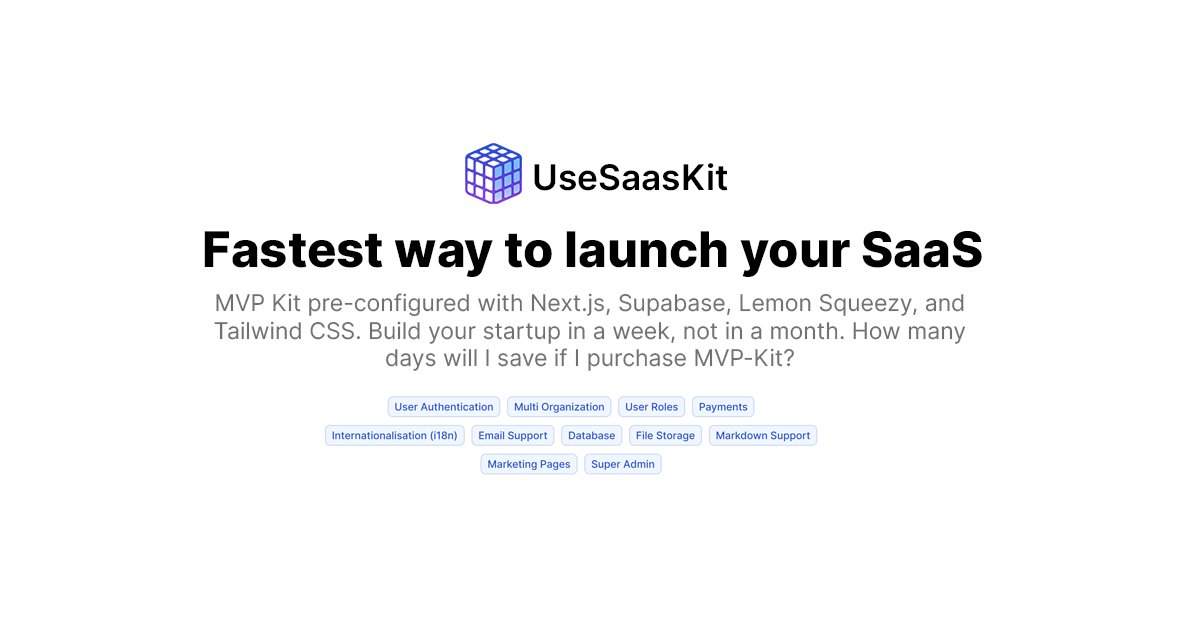
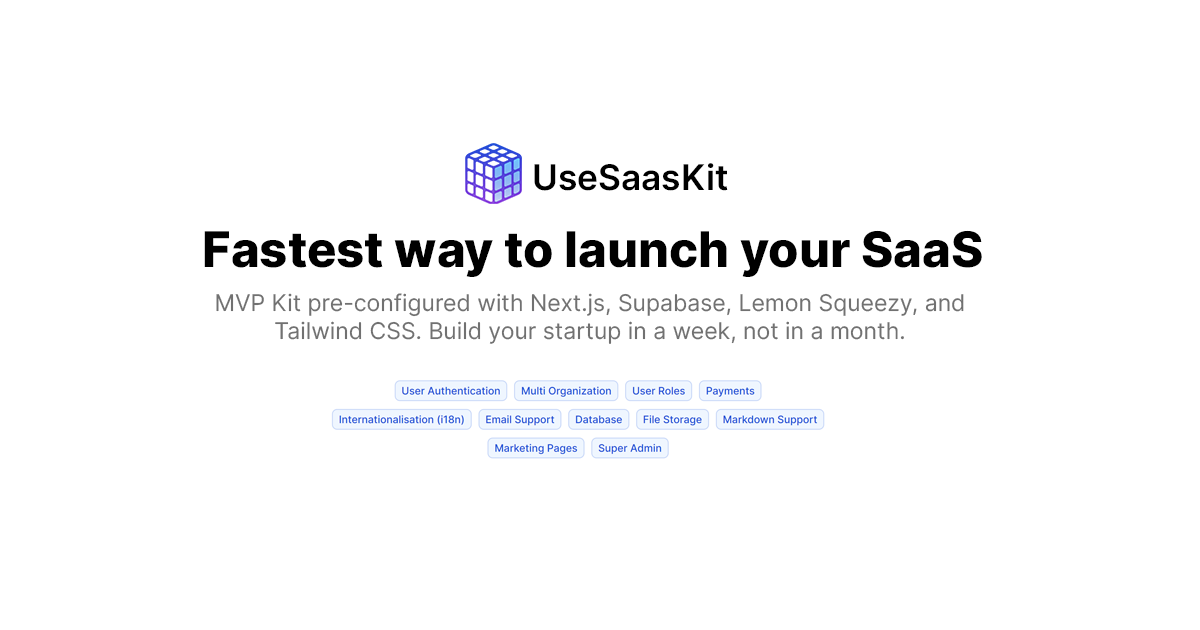
feat: add new og image and twitter tracking

Changed region(s): [[0.185, 0.5127, 0.8017, 0.754]]

diff --git a/src/app/layout.tsx b/src/app/layout.tsx
@@ -3,7 +3,7 @@ import { Inter } from "next/font/google";
 import "@/styles/tailwind.css";
 import { cnMerge } from "@/utils";
 import { Navigation } from "@/components/navigation";
-import { CRONBOT_APP_URL } from "@/config/server";
+import { CRONBOT_APP_URL, TWITTER_EVENT_ID } from "@/config/server";
 
 const inter = Inter({ subsets: ["latin"] });
 
@@ -43,6 +43,15 @@ export default function RootLayout({
           defer
           data-domain="usesaaskit.com"
           src="https://plausible.io/js/script.js"
+        ></script>
+
+        <script
+          type="text/javascript"
+          dangerouslySetInnerHTML={{
+            __html: ` // Insert Twitter Event ID
+          twq('event', ${TWITTER_EVENT_ID}, {
+          });`,
+          }}
         ></script>
       </body>
     </html>

diff --git a/src/config/server.ts b/src/config/server.ts
@@ -1,3 +1,4 @@
 export const CONVERTKIT_API_KEY = process.env.CONVERTKIT_API_KEY;
 export const CONVERTKIT_FORM_ID = process.env.CONVERTKIT_FORM_ID;
 export const CRONBOT_APP_URL = process.env.CRONBOT_APP_URL;
+export const TWITTER_EVENT_ID = process.env.TWITTER_EVENT_ID;
